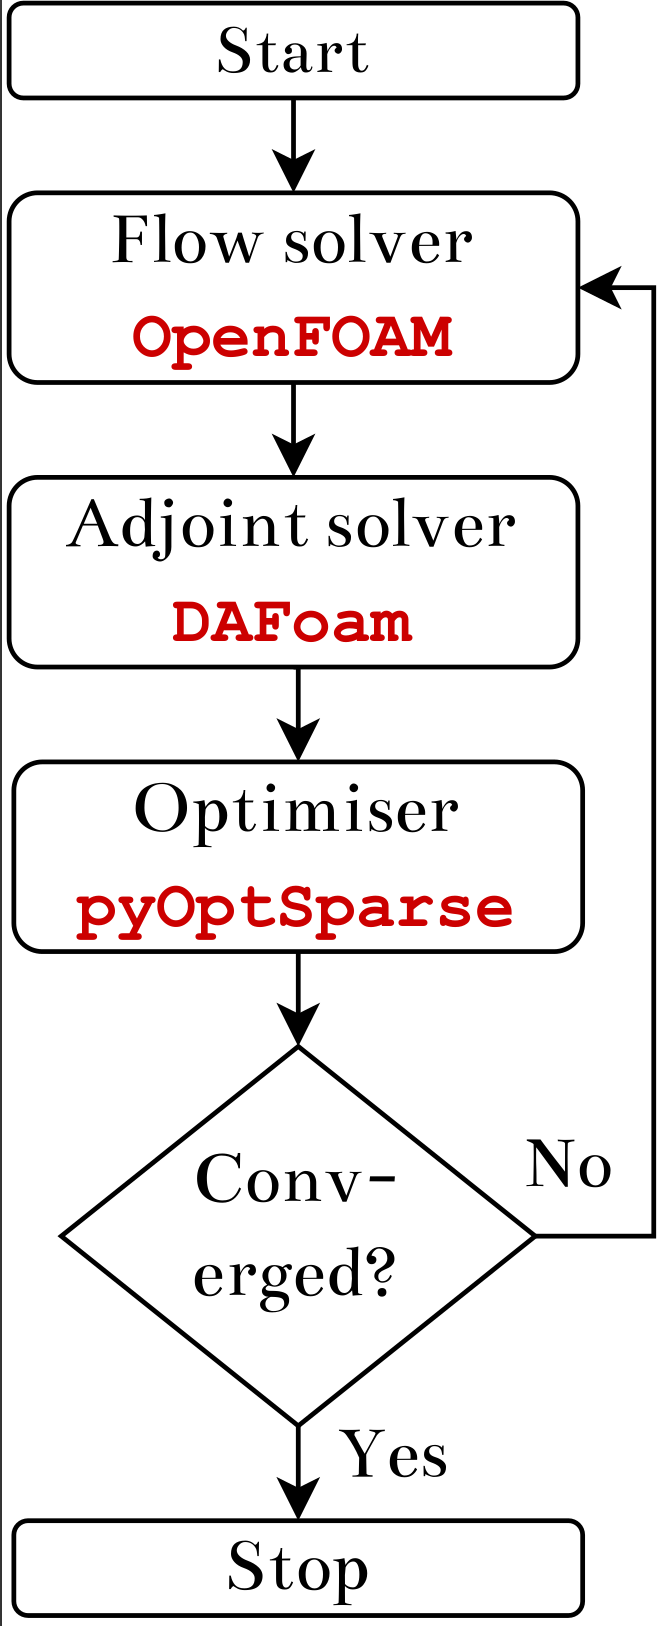
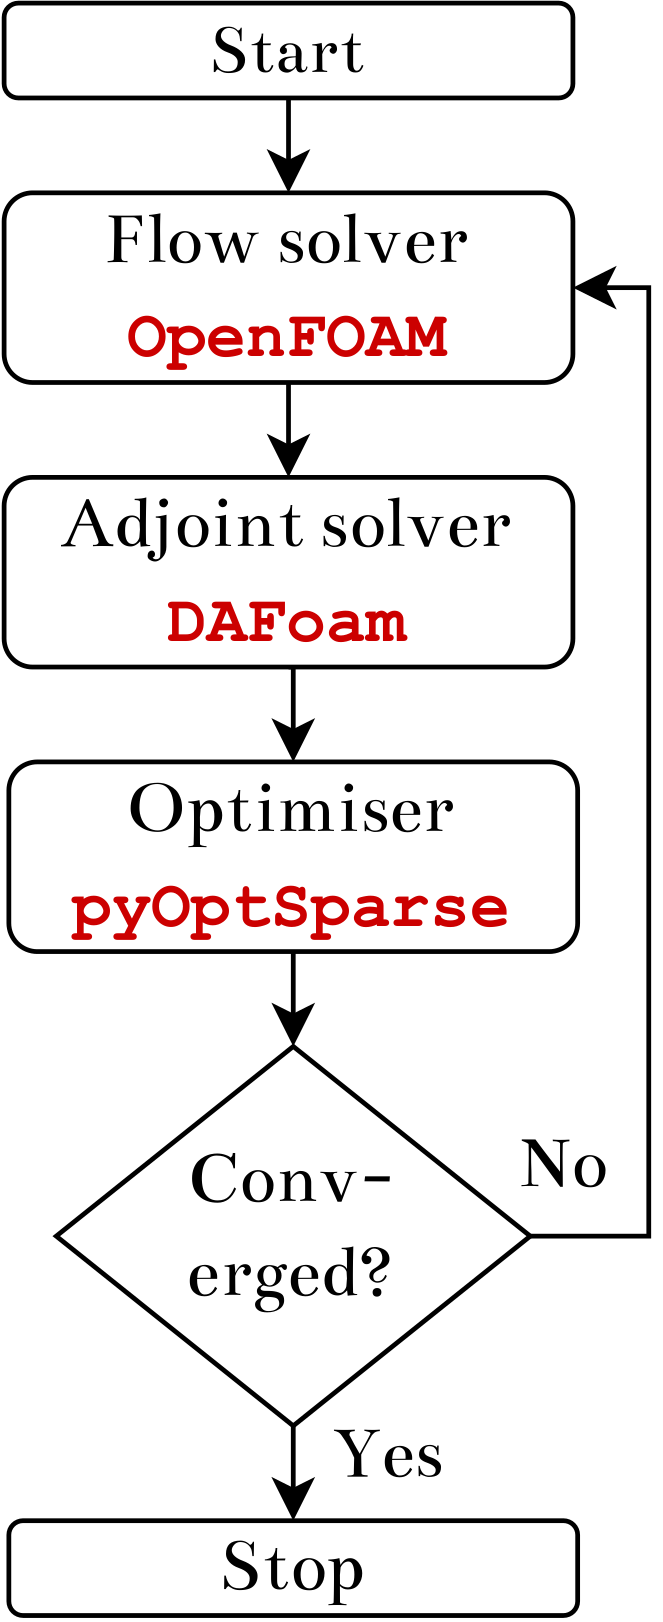
content update

diff --git a/pages/mydoc/mydoc_tutorials_fieldinversion_ph.md b/pages/mydoc/mydoc_tutorials_fieldinversion_ph.md
@@ -1,13 +1,13 @@
 ---
 title: Field inversion tutorial
 keywords: field inversion, run script, optimization
-summary: "We need to set runScript.py for field inversion."
+summary: "An introduction to setting up and running field inversion for data-driven RANS modelling."
 sidebar: mydoc_sidebar
 permalink: mydoc_tutorials_field_inversion_ph.html
 folder: mydoc
 ---
 ## Overview
-The following is a demonstration of how to perform field inversion using DAFoam. We have selected the periodic hill flow as a demonstrative case. In this tutorial we will show how we can augment the Spalart-Allmaras model using steamwise velocity data. For the purposes of this tutorial, we will be treating the results from the k-epsilon model as the reference data. 
+The following is a demonstration of how to perform field inversion using DAFoam. We have selected the periodic hill flow as a demonstrative case. In this tutorial we will show how we can augment the Spalart-Allmaras model using velocity field data for "training". For the purposes of this tutorial, we will be treating the results from the k-epsilon model as the reference data (for simplicity). We have found the k-epsilon results to be closer to high-fidelity data compared to other RANS models.
 
 <pre>
 Reynolds number: 5,600
@@ -15,7 +15,8 @@ Mesh cells: 3,500
 Adjoint solver: DASimpleFoam
 </pre>
 
-<img src="{{ site.url }}{{ site.baseurl }}/images/tutorials/FI/phMesh.png" width="500" />
+<img src="{{ site.url }}{{ site.baseurl }}/images/tutorials/FI/phMesh.png" width="400" />
+
 Fig. 1. Periodic hill geometry and mesh. 
 
 ## Run field inversion
@@ -32,10 +33,12 @@ Then, use the following command to run the optimization with 4 CPU cores:
 mpirun -np 4 python runScript.py 2>&1 | tee logOpt.txt
 </pre>
 
-<img src="{{ site.url }}{{ site.baseurl }}/images/tutorials/FI/U_comparison_coarse_mesh.png" width="500" />
+<img src="{{ site.url }}{{ site.baseurl }}/images/tutorials/FI/U_comparison_coarse_mesh.png" width="400" />
+
 Fig. 2. Velocity magnitude contour. 
 
-<img src="{{ site.url }}{{ site.baseurl }}/images/tutorials/FI/beta_field_ph.png" width="500" />
+<img src="{{ site.url }}{{ site.baseurl }}/images/tutorials/FI/beta_field_ph.png" width="400" />
+
 Fig. 3. The optimised corrective field beta.  
 
 The case above was terminated after 19 iterations and took approximately 6 hours on Intel 2.40 GHz CPU with 4 cores. The objective function value reduced ~88%. 
@@ -46,7 +49,8 @@ Field inversion involves perturbations of the production term in the model trans
 
 For those unfamiliar with DAFoam, here is a brief overview of the optimisation process. A high-level Python layer (controlled through runScript.py) is used to set and run the field inversion simulation process outlined in Fig. 4. Specifically, the following parameters are set in a Python script: primal flow solver (i.e. DASimpleFoam); residuals convergence tolerance; the field inversion objective function specialisation and the relevant parameters (so far, the following have been implemented: full fields, velocity profiles, surface pressure and skin friction, and aerodynamic force coefficients); adjoint solver parameters such as state normalisation constants, and the equation solution options; and finally the optimiser and its parameters such as beta field constraints (upper and lower bounds), convergence tolerance, maximum number of iterations, etc.
 
-<img src="{{ site.url }}{{ site.baseurl }}/images/tutorials/FI/flowchart.png" width="200" />
+<img src="{{ site.url }}{{ site.baseurl }}/images/tutorials/FI/flowchart.png" width="150" />
+
 Fig. 4. Field inversion flow diagram. 
 
 
@@ -94,21 +98,21 @@ DVGeo.addRefAxis("bodyAxis", xFraction=0.25, alignIndex="k")
 ### Objective function: 
 The objective function is normally composed of two terms. A least-squares term and a regularisation term:
 
-<img src="{{ site.url }}{{ site.baseurl }}/images/tutorials/FI/objective_function_eqn.png" width="250" />
+<img src="{{ site.url }}{{ site.baseurl }}/images/tutorials/FI/objective_function_eqn.png" width="150" />
 
 Each term is defined in two sub-dictionaries. The bare minimum entries for each sub-dictionary are:
 <pre>
 "obj-term":
 {
     "type": "fieldInversion",   # to designate type of objective function
-    "source": "boxToCell",      # method for selecting discrete mesh faces to compute the objective function  
+    "source": "boxToCell",      # method for selecting mesh faces to compute the objective function  
     "min": [xMin, yMin, zMin],  # min point for source selection
     "max" : [xMax, yMax, zMax], # max point for source selection
     "data": "UData",            # used to designate the objective function specialisation 
-    "scale": 1,                 # useful when scale the term (e.g. for U/Uinf, scale = Uinf)
+    "scale": 1,                 # useful when using scaled data (e.g. for U/Uinf, scale = Uinf)
     "addToAdjoint": True,       # want to solve the adjoint equations for optimisation
     "weightedSum": True,        # set to true if you want to normalise the objective function term
-    "weight": 1/J0              # where J0 can be the objective function at the 0th optimisation iteration   
+    "weight": 1/J0              # where J0 can be the objective function at the 0th optimisation iter   
 },
 </pre>
 
@@ -123,7 +127,6 @@ For the case above, here is how the objective function is composed.
         "min": [-10.0, -10.0, -10.0],
         "max": [10.0, 10.0, 10.0],
         "data": "UData", 
-        "velocityComponent": [1.0, 0.0, 0.0],   # use Ux reference 
         "scale": 1,
         "addToAdjoint": True,
         "weightedSum": True,
@@ -159,7 +162,7 @@ daOptions["designVar"]["beta"] = {"designVarType": "Field", "fieldName": "betaFi
 Due to the large number of design variables (equal to the number of mesh cells) we are restricted to the IPOPT (open-source and available with DAFoam) and the SNOPT (not open-source, license required) optimisers. 
 
 ### Periodic hill specific inlet pressure gradient:
-The following code snippet in the runScript.py is unique to flows where we want to maintain volume-averaged mean velocity, as is required for the periodic hill flow. This is done by add a finite volume source term to the momentum equation:
+The following code snippet in the runScript.py is unique to flows where we want to maintain volume-averaged mean velocity, as is required for the periodic hill flow. This is done by adding a finite volume source term to the momentum equation:
 <pre>
 "fvSource":{
   "gradP": {
@@ -171,5 +174,7 @@ The following code snippet in the runScript.py is unique to flows where we want 
 </pre>
 {% include note.html content="Users must remove these lines for the cases that do not require a forcing term to the momentum equation. %}
 
+### Note 
+The mesh used in this case is very coarse, in order to allow a relatively fast run time. While appropriate for demonstrative purposes, the users are cautioned that these field inversion results are sub-optimal and that better results are achievable with a higher-quality mesh.
 ### Contact
 Please note that the field inversion feature in DAFoam is a work in progress. More tutorials, documentation, and features will be added as the work progresses. In the meantime, if you have questions about the tool or would like to collaborate please get in touch: obidar1@sheffield.ac.uk. 
